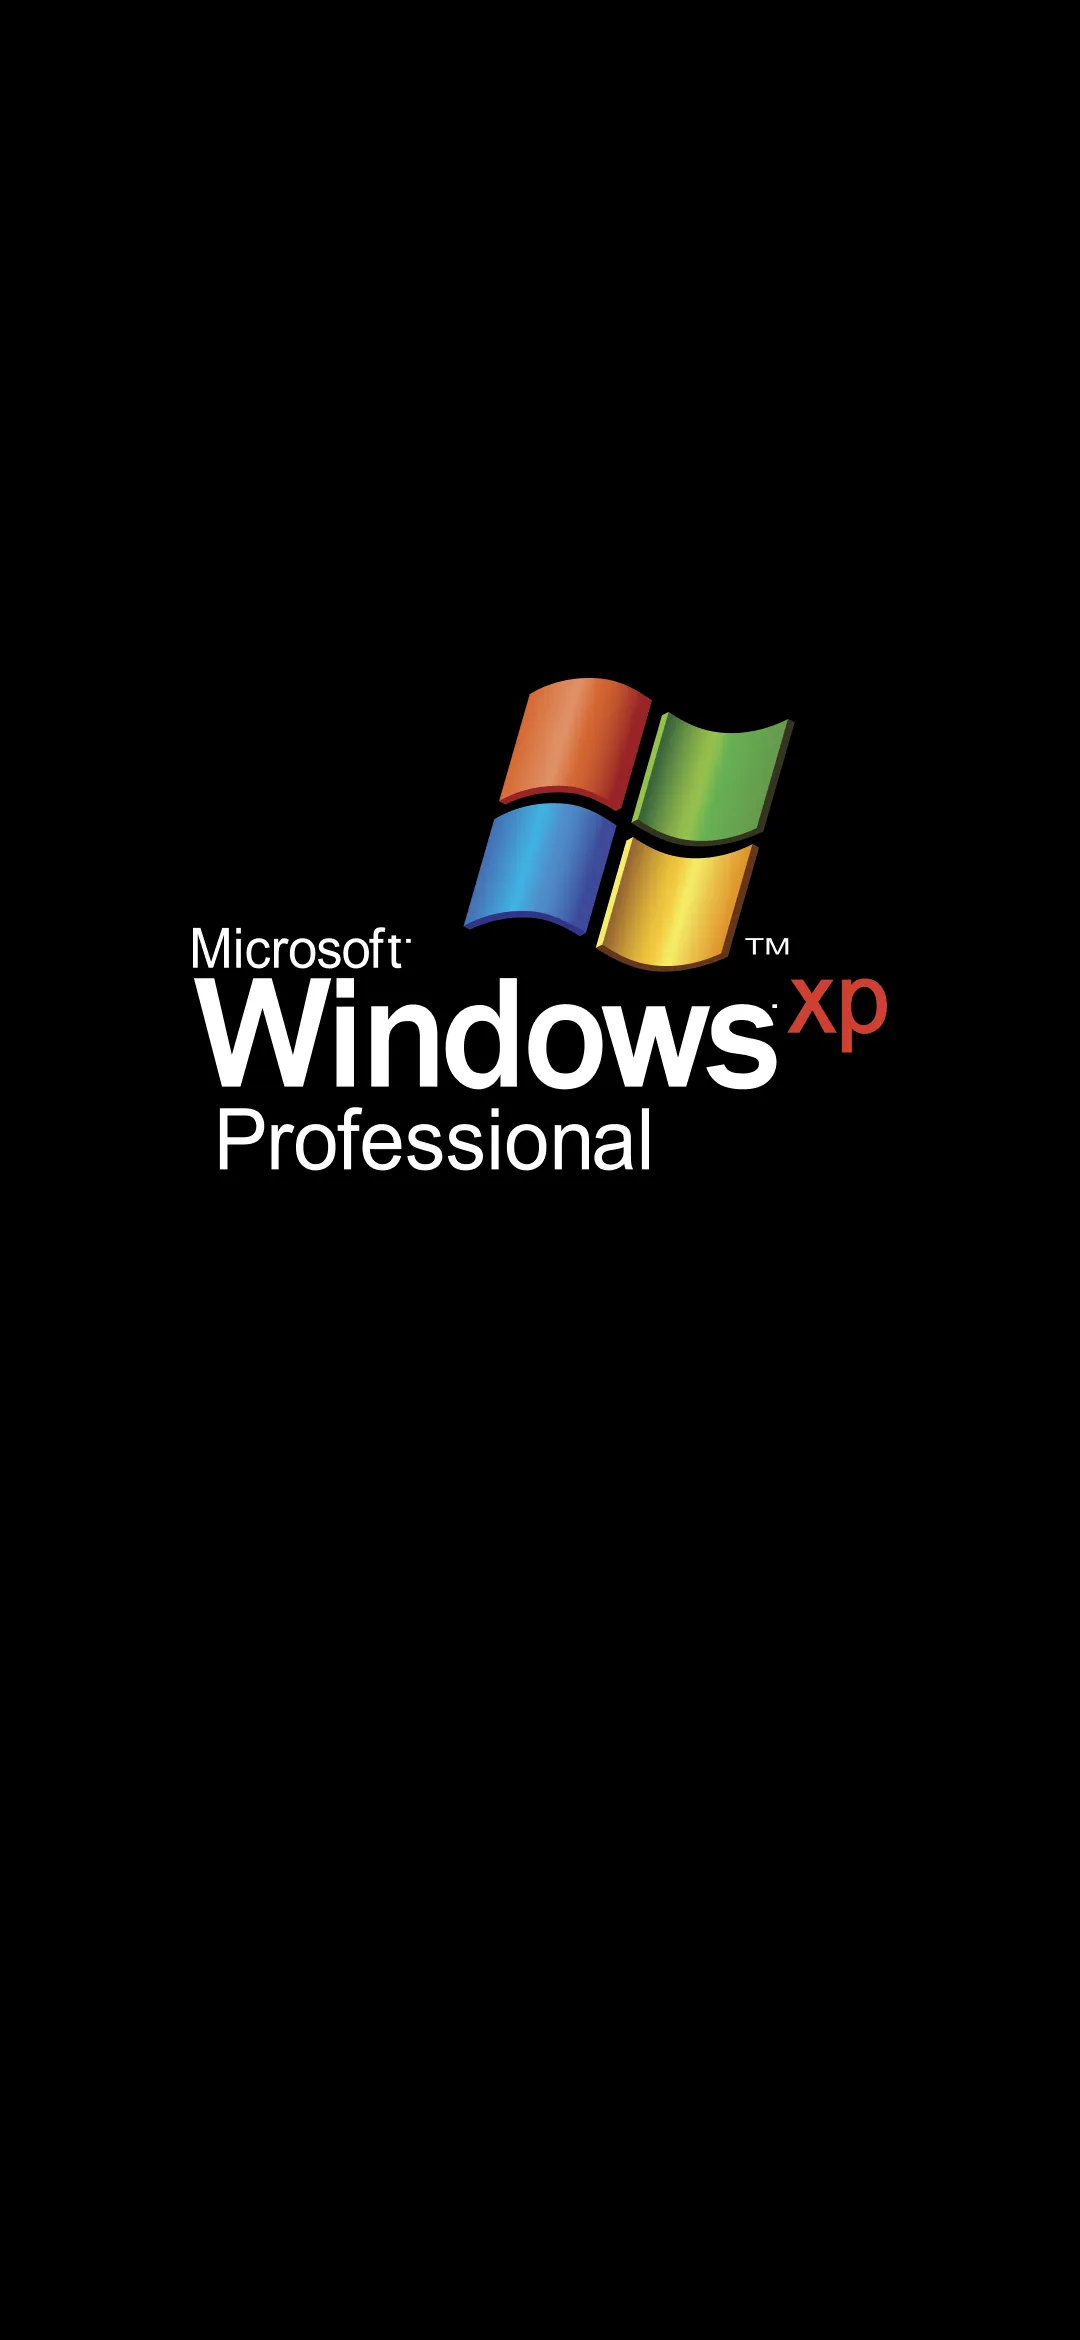
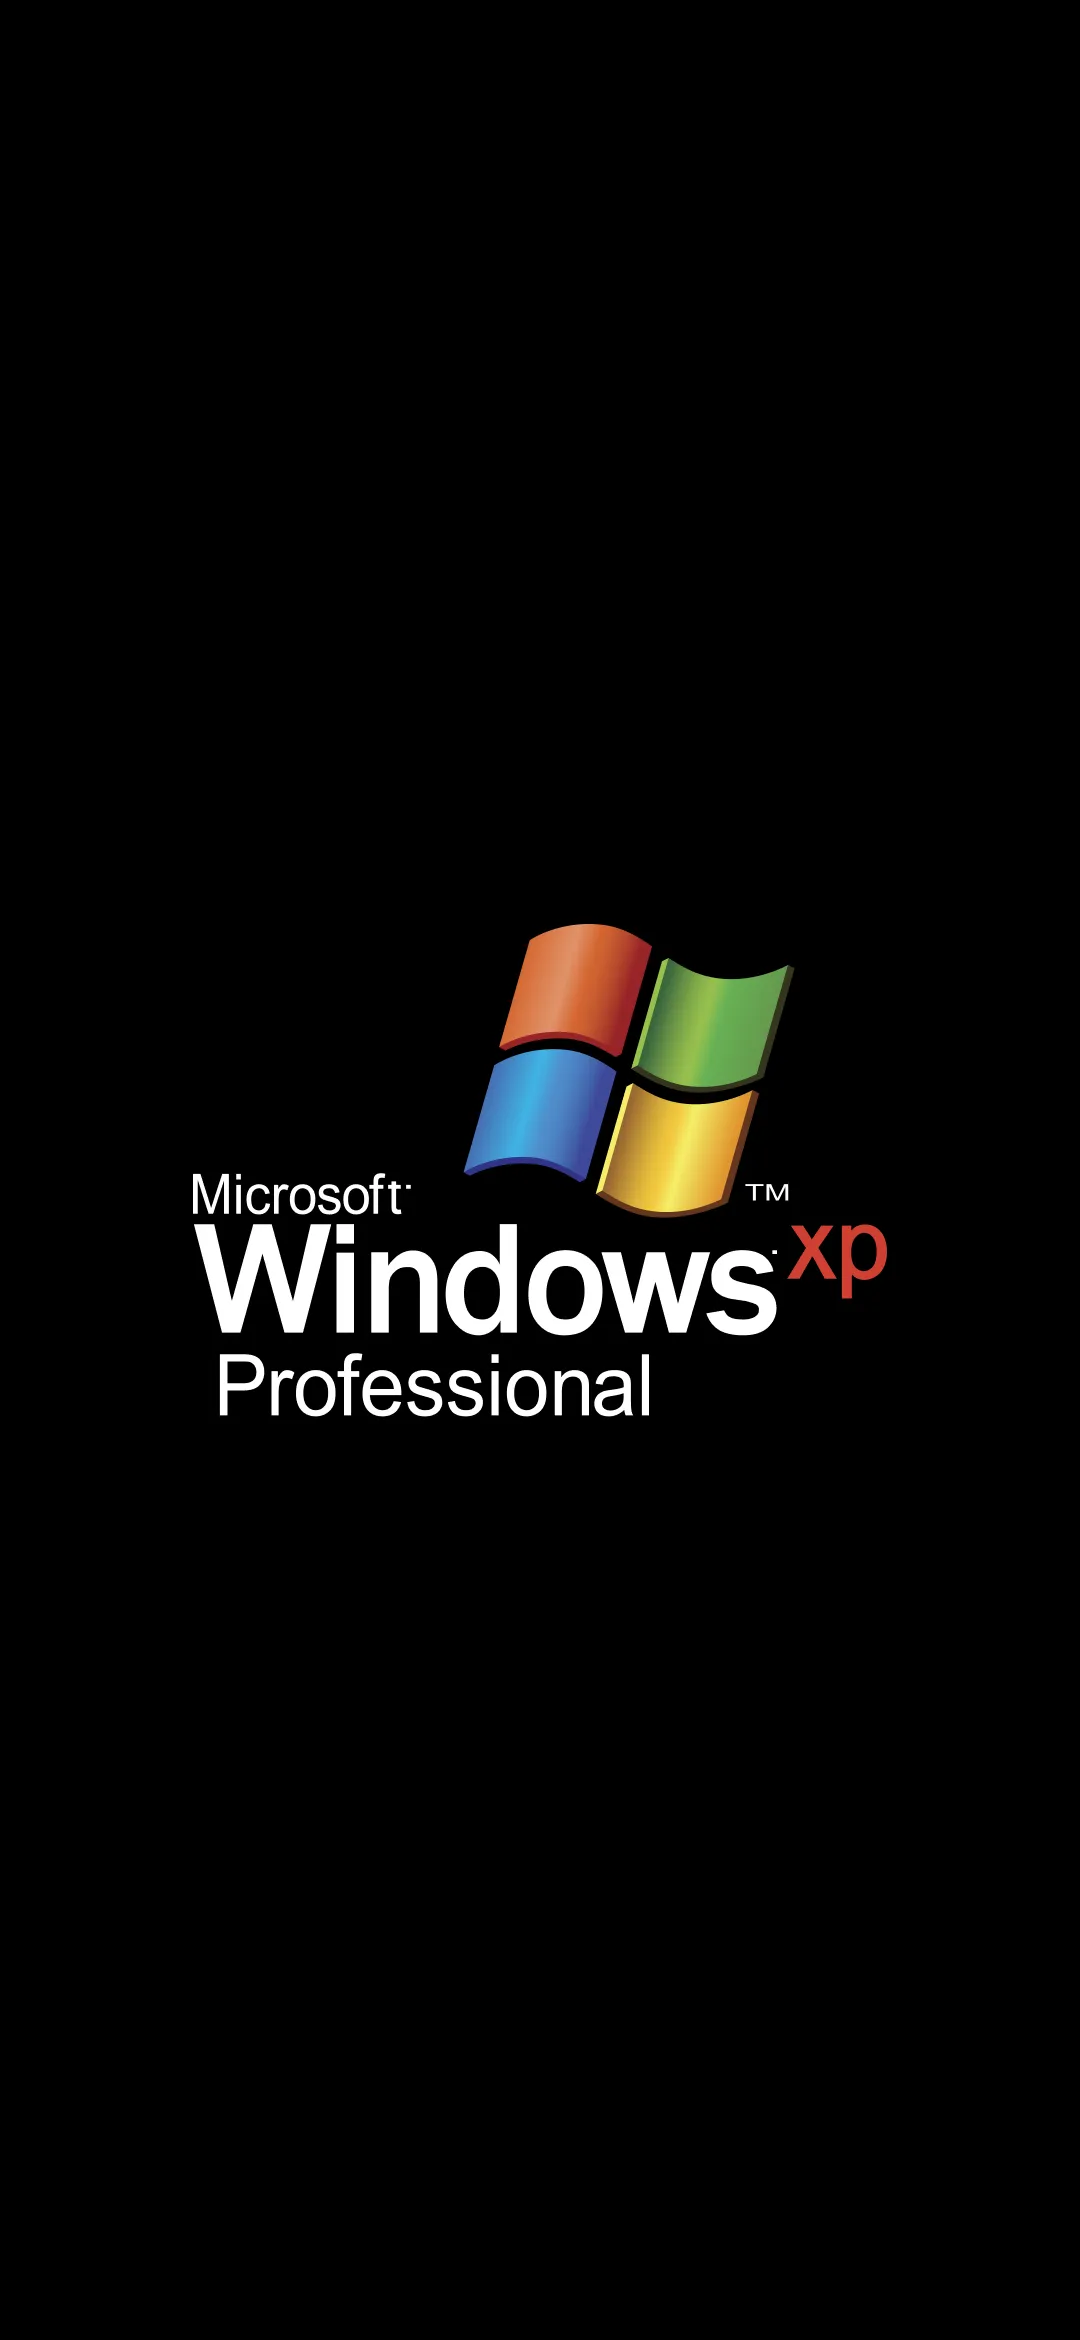
Add startup screen loading animations for XP and Ubuntu

Changed region(s): [[0.1528, 0.2808, 0.825, 0.6239]]

diff --git a/sass/Components/Pages/_p_LogoScreen.scss b/sass/Components/Pages/_p_LogoScreen.scss
@@ -1,36 +1,107 @@
 @use '../../Settings/variables' as *;
 
 .p_LogoScreen {
+  $self: &;
+  $win95: '.t_Win95';
+  $win98: '.t_Win98';
+  $winXP: '.t_WinXP';
+  $ubuntu: '.t_Linux';
+
   width: 100dvw;
   height: 100dvh;
   overflow: hidden;
   position: relative;
   background-color: $color-black;
 
+  >picture {
+    position: absolute;
+    inset: 0;
+    z-index: 1;
+  }
+
   &_image {
     object-fit: cover;
     object-position: center;
-
-    &-wrapper {
-      position: absolute;
-      top: 0;
-      left: 0;
-      width: 100%;
-      height: 100%;
-      z-index: 1;
-    }
   }
 
   &_loading {
-    position: absolute;
-    bottom: 0;
-    left: 0;
-    width: 100%;
-    height: 12px;
     z-index: 2;
+  }
 
-    background: $win95-loading-gradient;
-    background-size: 200% 100%;
-    animation: win95-loading 2.5s infinite linear;
+  &#{$win95},
+  &#{$win98} {
+    #{$self} {
+      &_loading {
+        position: absolute;
+        bottom: 0;
+        left: 0;
+        width: 100%;
+        height: 12px;
+        background: $win95-loading-gradient;
+        background-size: 200% 100%;
+        animation: win95-loading 2.5s infinite linear;
+      }
+    }
+  }
+
+  &#{$winXP} {
+    #{$self} {
+      &_loading {
+        width: 20vw;
+        height: 2.5vw;
+        border: .2vw solid #878787;
+        border-radius: .5vw;
+        position: absolute;
+        top: 75%;
+        left: 50%;
+        transform: translate(-50%, -50%);
+        overflow: hidden;
+
+        ul {
+          font-size: 0;
+          display: inline-block;
+          position: absolute;
+          top: 0;
+          left: -2.6vw;
+          animation: winXP-loading 2s infinite linear;
+          width: 3.9vw;
+
+          li {
+            width: 1.2vw;
+            height: 2.0vw;
+            display: inline-block;
+            background: $winXP-loading-gradient;
+            margin: 0 .1vw 0 0;
+          }
+        }
+      }
+    }
+  }
+
+  &#{$ubuntu} {
+    #{$self} {
+      &_loading {
+        position: absolute;
+        top: 64%;
+        left: 50%;
+        transform: translate(-50%, -50%);
+        width: 32px;
+        height: 32px;
+        border-radius: 50%;
+        background: repeating-conic-gradient(from 0deg,
+            transparent 0deg,
+            transparent 15deg,
+            rgba(255, 255, 255, 1) 95deg,
+            transparent 95deg,
+            transparent 120deg);
+        mask: radial-gradient(farthest-side, transparent 72%, black 73%);
+        -webkit-mask: radial-gradient(farthest-side, transparent 72%, black 73%);
+        animation: ubuntu-loading 1.5s linear infinite;
+
+        ul {
+          display: none;
+        }
+      }
+    }
   }
 }

diff --git a/src/config/osThemes.ts b/src/config/osThemes.ts
@@ -16,8 +16,6 @@ export const osConfigs: Record<OsId, OsTheme> = {
     sounds: {
       startup: '/assets/themes/win95/sounds/startup.wav',
       shutdown: '/assets/themes/win95/sounds/shutdown.wav',
-      click: '/assets/themes/win95/sounds/click.wav',
-      error: '/assets/themes/win95/sounds/error.wav',
     },
   },
   win98: {
@@ -33,7 +31,7 @@ export const osConfigs: Record<OsId, OsTheme> = {
     },
     sounds: {
       startup: '/assets/themes/win98/sounds/startup.wav',
-      error: '/assets/themes/win98/sounds/error.wav',
+      error: '/assets/themes/win98/sounds/shutdown.wav',
     },
   },
   winXP: {
@@ -54,7 +52,6 @@ export const osConfigs: Record<OsId, OsTheme> = {
     sounds: {
       startup: '/assets/themes/winXP/sounds/startup.wav',
       shutdown: '/assets/themes/winXP/sounds/shutdown.wav',
-      error: '/assets/themes/winXP/sounds/error.wav',
     },
   },
   linux: {

diff --git a/locales/fr.content.ts b/locales/fr.content.ts
@@ -8,19 +8,19 @@ export const contentFr: Content = {
     list: [
       {
         id: 'win95',
-        label: "Microsoft Windows 95 (le premier ordinateur que j'ai utilise)",
+        label: "Windows 95 (le premier ordinateur que j'ai utilise)",
       },
       {
         id: 'win98',
-        label: "Microsoft Windows 98 (l'ordinateur de mon enfance)",
+        label: " Windows 98 (l'ordinateur de mon enfance)",
       },
       {
         id: 'winXP',
-        label: 'Microsoft Windows XP (mon premier ordinateur portable)',
+        label: 'Windows XP (mon premier ordinateur portable)',
       },
       {
         id: 'linux',
-        label: 'GNU/Linux (mon outil de travail au quotidien)',
+        label: 'Linux - Ubuntu (mon outil de travail au quotidien)',
       },
     ],
     navigation:

diff --git a/sass/Settings/_variables.scss b/sass/Settings/_variables.scss
@@ -42,6 +42,17 @@ $win95-loading-gradient: linear-gradient(to right,
       #a7bbc3,
       #4f7ebb);
 
+// WinXP
+$winXP-loading-gradient: linear-gradient(180deg,
+      #09112d,
+      #8197cd 20%,
+      #8197cd 40%,
+      #5d62ab 60%,
+      #4158a6 70%,
+      #4158a6 80%,
+      #204399 90%,
+      #1c2954);
+
 // SURFACES & ELEMENTS
 $window-face: $color-grey;
 $button-face: $color-grey;
@@ -90,5 +101,25 @@ $biosCursorBlink: 1s step-start infinite;
 
    100% {
       background-position: -100% 0;
+   }
+}
+
+@keyframes winXP-loading {
+   0% {
+      left: -4.6vw;
+   }
+
+   100% {
+      left: 20vw;
+   }
+}
+
+@keyframes ubuntu-loading {
+   0% {
+      transform: translate(-50%, -50%) rotate(0deg);
+   }
+
+   100% {
+      transform: translate(-50%, -50%) rotate(360deg);
    }
 }

diff --git a/sass/Components/Templates/_t_Win98.scss b/sass/Components/Templates/_t_Win98.scss
@@ -1,1 +1,32 @@
-.t_Win98 {}
+.t_Win98 {
+  $self: &;
+  $desktop: '.p_Desktop';
+
+  &#{$desktop} {
+    position: relative;
+
+    #{$desktop} {
+      &_background {
+        position: relative;
+        width: 100%;
+        height: 100%;
+
+        &::after {
+          content: '';
+          position: absolute;
+          z-index: -10;
+          top: 50%;
+          left: 50%;
+          transform: translate(-50%, -50%);
+          width: 60vw;
+          max-width: 650px;
+          aspect-ratio: 1918 / 1536;
+          background-image: url('/assets/images/Windows_Logo-92.svg');
+          background-repeat: no-repeat;
+          background-position: center;
+          background-size: contain;
+        }
+      }
+    }
+  }
+}

diff --git a/locales/en.content.ts b/locales/en.content.ts
@@ -8,19 +8,19 @@ export const contentEn: Content = {
     list: [
       {
         id: 'win95',
-        label: 'Microsoft Windows 95 (the first computer I used)',
+        label: 'Windows 95 (the first computer I used)',
       },
       {
         id: 'win98',
-        label: 'Microsoft Windows 98 (my childhood computer)',
+        label: 'Windows 98 (my childhood computer)',
       },
       {
         id: 'winXP',
-        label: 'Microsoft Windows XP (my first laptop)',
+        label: 'Windows XP (my first laptop)',
       },
       {
         id: 'linux',
-        label: 'GNU/Linux (my daily working tool)',
+        label: 'Linux - Ubuntu (my daily working tool)',
       },
     ],
     navigation:

diff --git a/src/components/pages/LogoScreen.tsx b/src/components/pages/LogoScreen.tsx
@@ -22,7 +22,7 @@ const LogoScreen: FC<BootScreenProps> = (props) => {
 
   return (
     <div className={classNames(componentsClass, additionalClass)}>
-      <picture className={`${componentsClass}_image-wrapper`}>
+      <picture>
         {mobile && (
           <source
             media={ResponsiveSize.SCREEN_M_MAX}
@@ -39,7 +39,13 @@ const LogoScreen: FC<BootScreenProps> = (props) => {
           className={`${componentsClass}_image`}
         />
       </picture>
-      <div className={`${componentsClass}_loading`} />
+      <div className={`${componentsClass}_loading`}>
+        <ul>
+          <li></li>
+          <li></li>
+          <li></li>
+        </ul>
+      </div>
     </div>
   )
 }

diff --git a/src/config/bootSequences.ts b/src/config/bootSequences.ts
@@ -12,18 +12,20 @@ export const bootSequences: Record<OsId, BootSequence> = {
   win98: [
     { step: 'specs', duration: 3500 },
     { step: 'systemconfig', duration: 2000 },
-    { step: 'logo', duration: 3000 },
+    { step: 'logo', duration: 4000 },
     { step: 'login' },
     { step: 'desktop' },
   ],
   winXP: [
-    { step: 'specs', duration: 1500 },
-    { step: 'logo', duration: 4000 },
+    { step: 'specs', duration: 2500 },
+    { step: 'logo', duration: 5000 },
     { step: 'login' },
     { step: 'desktop' },
   ],
   linux: [
+    { step: 'specs', duration: 2000 },
     { step: 'logo', duration: 4000 },
+    { step: 'login' },
     { step: 'desktop' },
   ],
 }

diff --git a/sass/Components/Templates/_t_Bios.scss b/sass/Components/Templates/_t_Bios.scss
@@ -55,7 +55,7 @@
 
    &_menu {
       border: 1px solid $color-bios-highlight;
-      padding: 8px 8px 64px 8px;
+      padding: 8px 8px 48px 8px;
    }
 
    &_list {
@@ -64,7 +64,7 @@
       padding: 0;
       display: flex;
       flex-direction: column;
-      gap: 2px;
+      gap: 0.5rem;
    }
 
    &_item {
